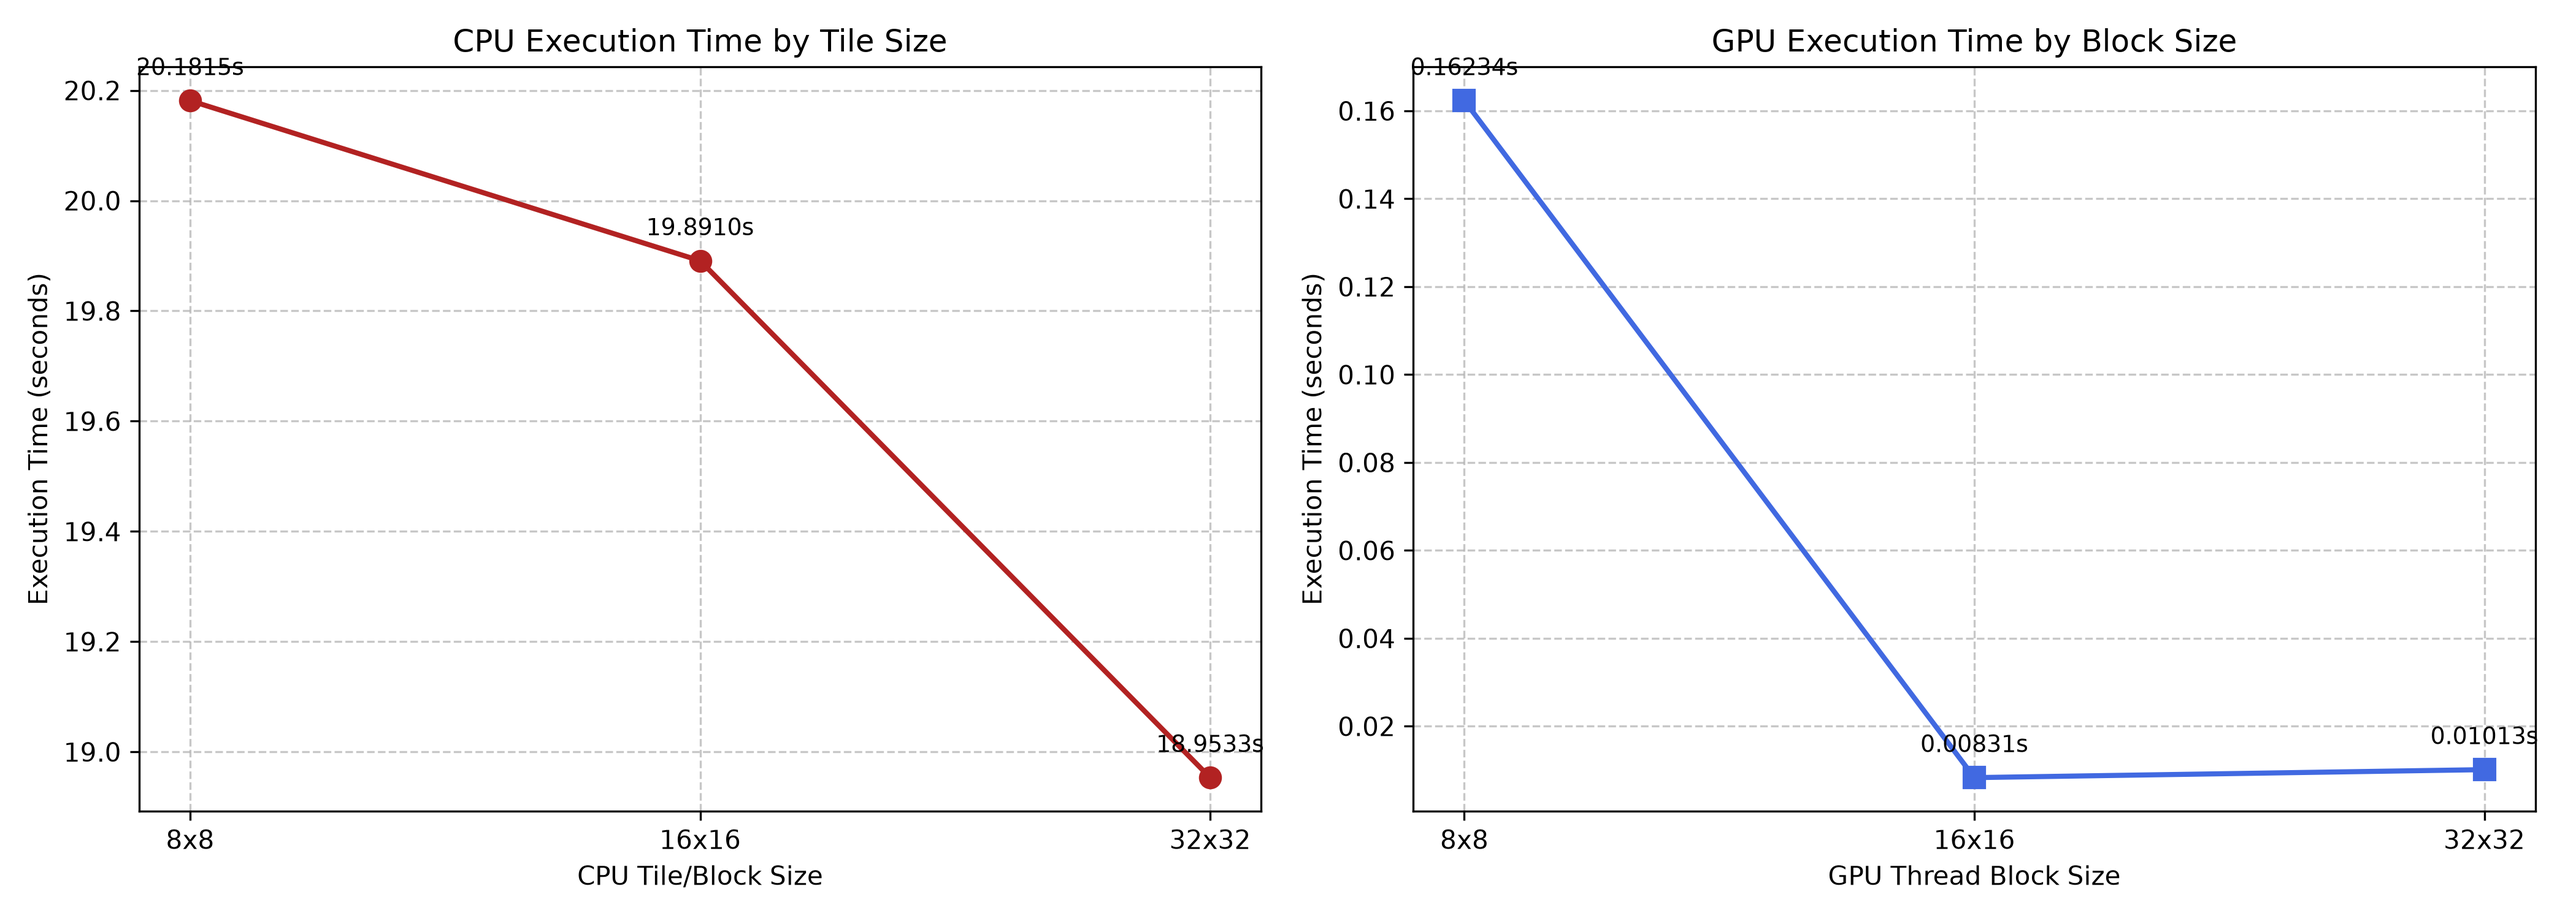
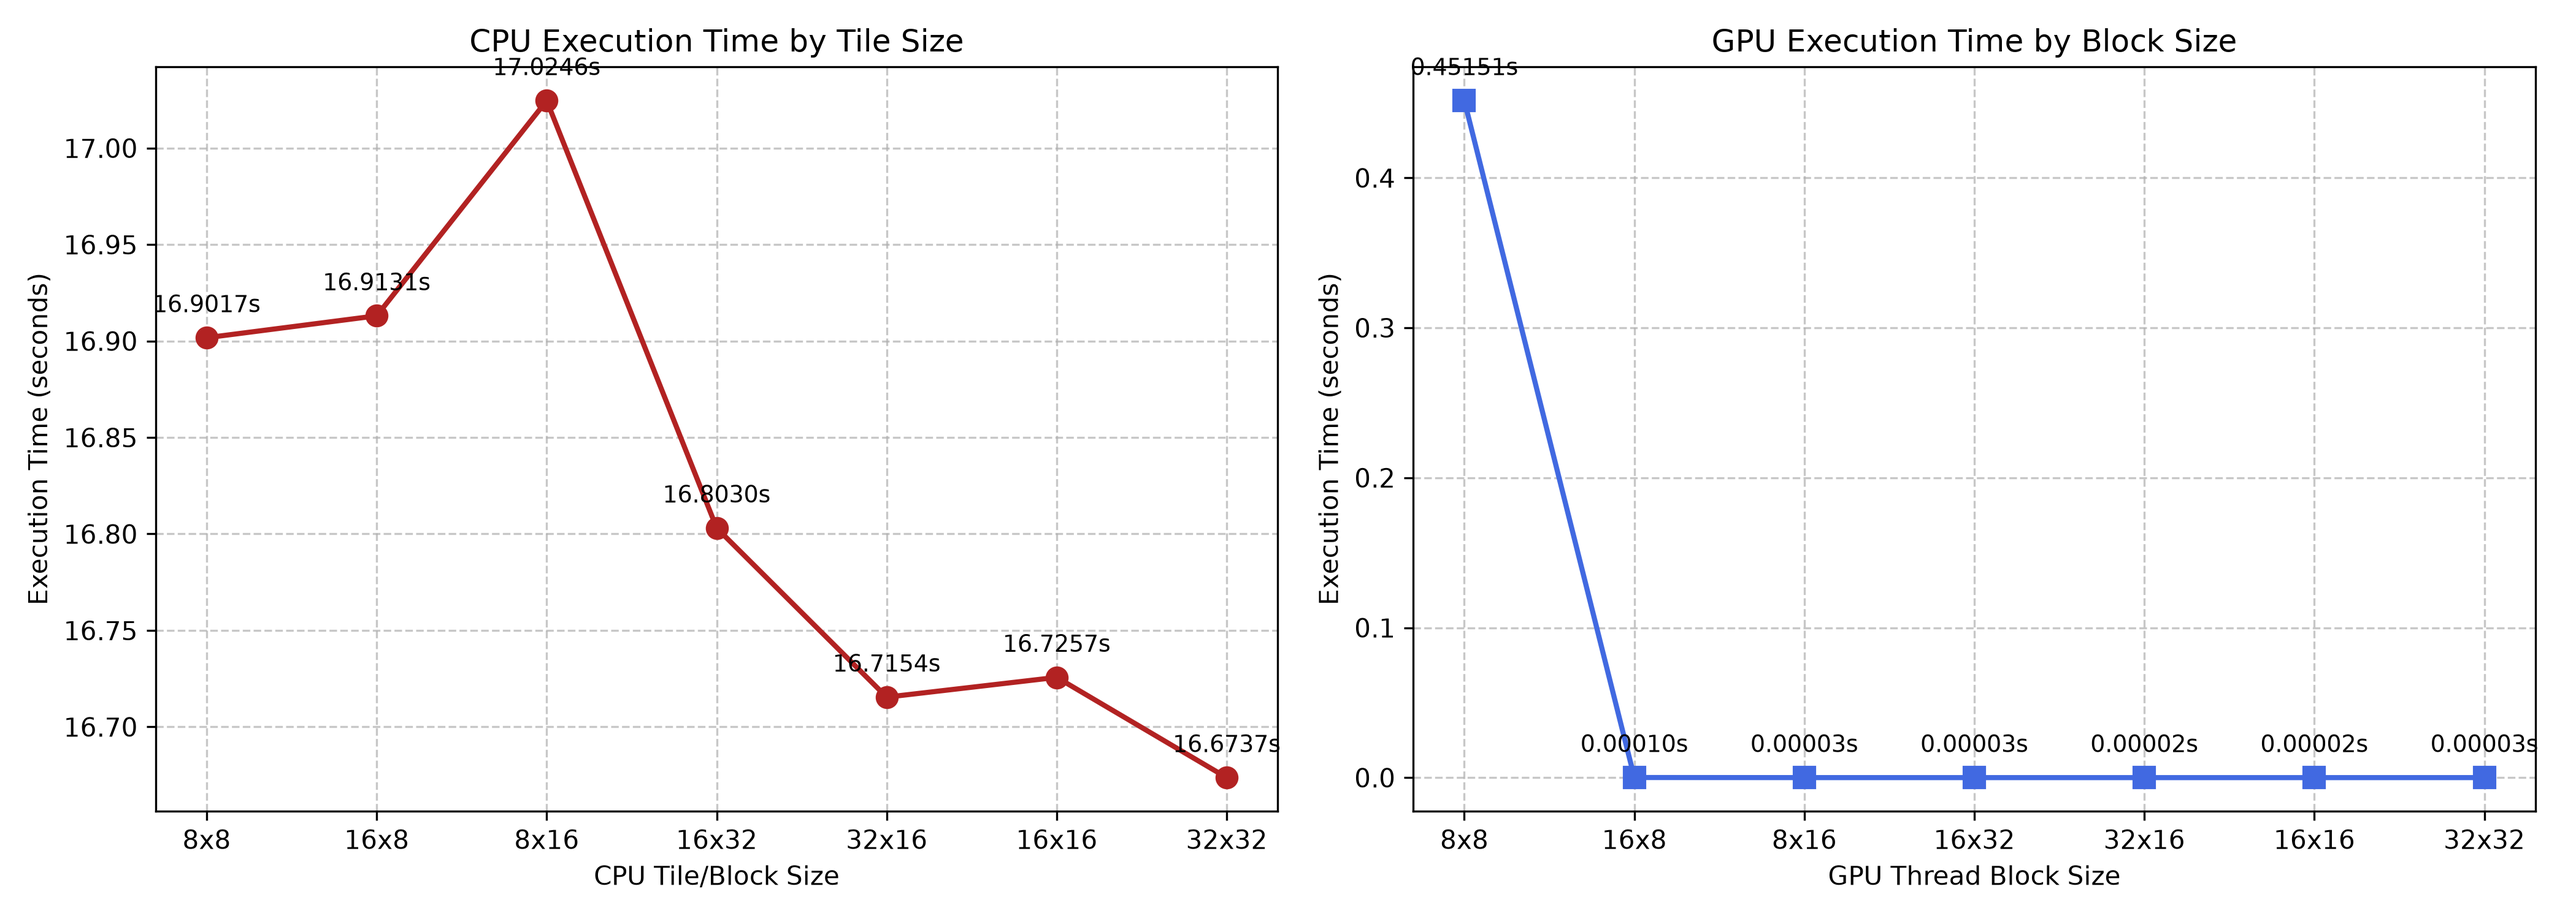
update: lab4 different block 2d

diff --git a/lab4/lab4.py b/lab4/lab4.py
@@ -17,7 +17,7 @@ def main():
     img = plt.imread(image_path).astype(np.float32)
     height, width, channels = img.shape
 
-    block_sizes = [(8, 8), (16, 16), (32, 32)]
+    block_sizes = [(8, 8), (16,8),(8,16),(16,32),(32,16), (16, 16), (32, 32)]
     block_labels = [f"{b[0]}x{b[1]}" for b in block_sizes]
     
     cpu_times = []
